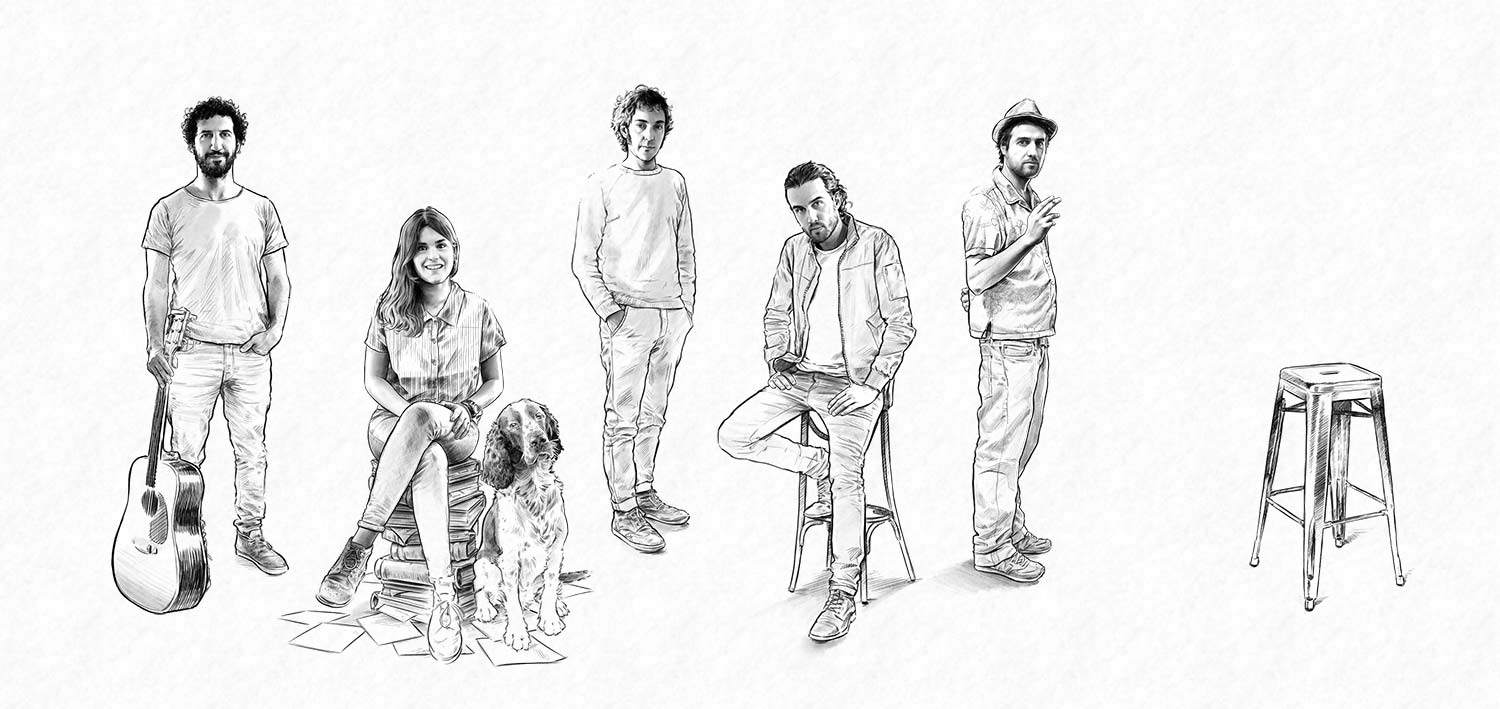
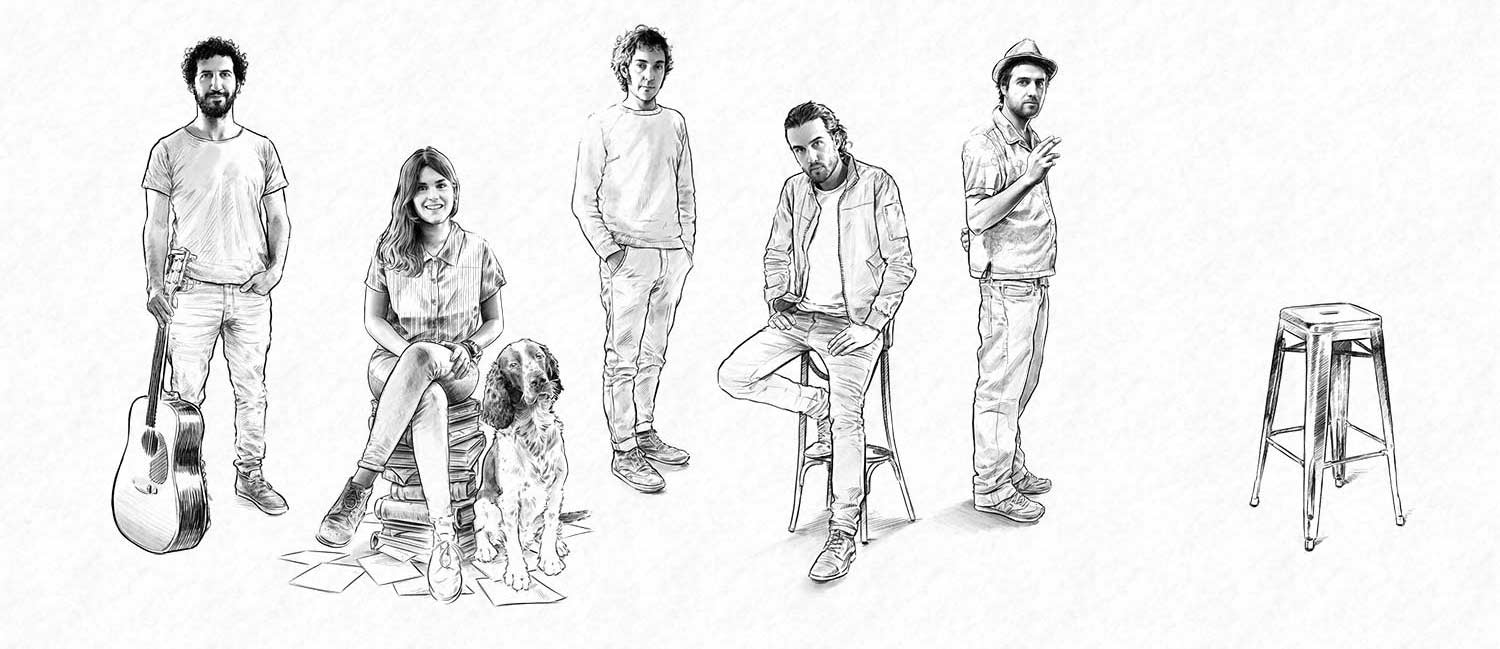
mucho

Changed region(s): [[0.0613, 0.0308, 0.7053, 0.9553], [0.828, 0.4622, 0.9507, 0.8629]]

diff --git a/sass/styles.scss b/sass/styles.scss
@@ -9,15 +9,15 @@
 /* ___-_ font-face _-________________ */
 
 @font-face {
-    font-family: 'cutie_starscript';
-    src: url('/atnls/fonts/cutie_star-webfont.woff2') format('woff2'),
-         url('/atnls/fonts/cutie_star-webfont.woff') format('woff');
+    font-family: 'rfont';
+    src: url('http://davidruizlopez.es/ruizfont-webfont.woff2') format('woff2'),
+         url('http://davidruizlopez.es/ruizfont-webfont.woff') format('woff');
     font-weight: normal;
     font-style: normal;
 }
 
 @mixin oxy { font-family: 'Oxygen', sans-serif; }
-@mixin cutie { font-family: 'cutie_starscript', serif; }
+@mixin cutie { font-family: 'rfont', serif; line-height: 1.4em; margin-bottom: 0.2em; letter-spacing: 0.3em; }
 
 @mixin closeWhite { position: absolute; z-index: 1; right: 1em; top: 1em; width: 44px; height: 44px; background: url(./img/atnls-sprite.png) -249px -82px no-repeat; }
 
@@ -32,7 +32,7 @@ $breakpoint: 980;
   /* ELEMENTOS GENERALES */
 body { background: white; padding: 0; @include oxy; font-size: 14px; line-height: 1.2em; font-weight: 300;
       position: absolute; height: 100%; width: 100%; }
-a { cursor: pointer!important; color: $yellow; font-weight: 900; @include transition(all 0.4s ease-in-out); }
+a { cursor: pointer!important; color: $green; font-weight: 900; @include transition(all 0.4s ease-in-out); }
 a.btn { text-decoration: none; padding: 0.6em 1em; background: #333; color: white; display: inline-block; margin: 0.4em 0; }
 a.btn-red { background: #CB324B; }
 a:hover { color: $green; }
@@ -42,7 +42,7 @@ p { font-size: 1.2em; line-height: 1.4em; margin-bottom: 1.4em; }
   p em { font-style: italic; }
 
 h1 { @include cutie; font-size: 10em; line-height: 1em; }
-h2 { @include cutie; line-height: 0.8em; font-size: 6em; margin-bottom: 0.2em; }
+h2 { @include cutie; font-size: 2.4em; margin-bottom: 0.4em; }
 h3 { display: block; text-transform: uppercase; font-weight: 900; font-size: 1.4em; padding-bottom: 3em; line-height: 1.2em; text-decoration: none;
   a { text-decoration: none; color: $yellow; }
   i.fa { color: #333; font-size: 2em; padding-left: 0.5em; }
@@ -66,13 +66,14 @@ iframe { border: none; }
 .wk-media-l { float:left; }
   .wk-media-l img,
   .wk-media-r img { display:block; }
+  img { width: 100%; height: auto; }
 .wk-media-r { display: table-cell; zoom:1; }
 
 /* Columns */
 .wk-col-l { display:inline; float:left; }
 .wk-col-r { display:inline; float:right; }
-.wk-col-50 { width: 48%; margin: 0 1%; }
-.wk-col-33 { width: 33%; }
+.wk-col-50 { width: 50%; @include box-sizing(border-box); padding: 0.4em; }
+.wk-col-33 { width: 33%; @include box-sizing(border-box); padding: 0.4em; }
 .wk-cent { text-align: center; }
 .wk-right { text-align: right; }
 
@@ -130,7 +131,7 @@ iframe { border: none; }
   .wrp { overflow: hidden; }
   }
 
-  #luis { position: absolute; right: 0.6%; top: 17.4%; width: 25.3%; height: 77%;
+  #luis { position: absolute; right: 0.6%; top: 9%; width: 25.3%; height: 77%;
     img { width: 100%; height: auto; position: absolute; left: 0; top: 0; }
     #luis-fill1, #luis-fill2, #luis-end1, #luis-end2, #luis-end3, #luis-end4 { @include transition(all 1s ease-in-out); display: block; opacity: 0 ; } // @include transform-origin(50%); @include transition-delay(0.4s);
     #luis-fill2 { position: absolute; width: 100%; height: 100%; left: 0; top: 0; opacity: 1;
@@ -150,13 +151,13 @@ iframe { border: none; }
     &.luis5 { #luis-end1, #luis-end2, #luis-end3, #luis-end4, #luis-fill1 { opacity: 1; } }
   }
 
-  #escandar { position: absolute; left: 58.7%; top: 7.2%; width: 20.9%; height: 86%;
+  #escandar { position: absolute; left: 58.7%; top: -1.5%; width: 20.9%; height: 86%;
     img { width: 100%; height: auto; position: absolute; left: 0; top: 0; }
     #escandar-fill1, #escandar-fill1bis, #escandar-fill2, #escandar-end { @include transition(all 1s ease-in-out); display: block; opacity: 0 ; } // @include transform-origin(50%); @include transition-delay(0.4s);
     #escandar-fill2 { position: absolute; width: 100%; height: 100%; left: 0; top: 0; opacity: 0; @include transition(all 1s ease-in-out); @include transition-delay(1s);
       // .wrp { height: 0; position: absolute; bottom: 0; }
       img { display: block; position: relative; top: -100%; } }
-    #escandar-text { position: absolute; width: 40%; left: 52.3%; top: 61%; display: block; display: none;
+    #escandar-text { position: absolute; width: 40%; left: 52.3%; top: 66.4%; display: block; display: none;
       img { position: relative; } }
     &:hover {
       #escandar-fill1 { opacity: 1; }
@@ -166,7 +167,7 @@ iframe { border: none; }
     &.viewed { #escandar-end { opacity: 1; } }
   }
 
-  #guille { position: absolute; left: 43.5%; top: 12.2%; width: 22.7%; height: 86%;
+  #guille { position: absolute; left: 43.5%; top: 4.2%; width: 22.7%; height: 86%;
     img { width: 100%; height: auto; position: absolute; left: 0; top: 0; }
     #guille-fill1, #guille-fill1bis, #guille-fill2, #guille-end { @include transition(all 1s ease-in-out); display: block; opacity: 0 ; } // @include transform-origin(50%); @include transition-delay(0.4s);
     #guille-fill2 { position: absolute; width: 100%; height: 100%; left: 0; top: 0; opacity: 1;
@@ -181,7 +182,7 @@ iframe { border: none; }
     &.viewed { #guille-end { opacity: 1; } }
   }
 
-  #carlos { position: absolute; left: 32.5%; top: 6.9%; width: 20%; height: 73%;
+  #carlos { position: absolute; left: 32.5%; top: -1.7%; width: 20%; height: 79%;
     img { width: 100%; height: auto; position: absolute; left: 0; top: 0; }
     #carlos-fill1, #carlos-fill2, #carlos-end { @include transition(all 1s ease-in-out); display: block; opacity: 0 ; } // @include transform-origin(50%); @include transition-delay(0.4s);
     #carlos-fill2 { position: absolute; width: 100%; height: 100%; left: 0; top: 0; opacity: 1;
@@ -193,7 +194,7 @@ iframe { border: none; }
     &.viewed { #carlos-end { opacity: 1; } }
   }
 
-  #marwan { position: absolute; left: 0; top: 11.8%; width: 24.8%; height: 83%;
+  #marwan { position: absolute; left: 0; top: 3.6%; width: 24.8%; height: 83%;
     img { width: 100%; height: auto; position: absolute; left: 0; top: 0; }
     #marwan-text { position: absolute; width: 27%; left: 13.5%; top: 18.6%; display: block; display: none;
       img { position: relative; } }
@@ -206,7 +207,7 @@ iframe { border: none; }
     &.viewed { #marwan-end { opacity: 1; } #marwan-dust { opacity: 1; } }
   }
 
-  #elvira { position: absolute; left: 18.5%; top: 16.4%; width: 21.7%; height: 83%;
+  #elvira { position: absolute; left: 18.5%; top: 8.7%; width: 21.7%; height: 83%;
     img { width: 100%; height: auto; position: absolute; left: 0; top: 0; }
     #elvira-text { position: absolute; width: 38.9%; left: 34.5%; top: 10.6%; display: none;
       img { position: relative; } }
@@ -226,9 +227,9 @@ iframe { border: none; }
   }
 
   // pagina de poemas
-#poemas { position: absolute; top: 0; left: 0; width: 100%; height: 100%; background: rgba(51, 51, 51, 0.98); color: white; overflow: auto; z-index: 10;
+#poemas { position: absolute; top: 0; left: 0; width: 100%; height: 100%; background: rgba(51, 51, 51, 0.9); color: white; overflow: auto; z-index: 10;
   .wrap { max-width: 1200px; height: 100%; padding-top: 2em; position: absolute; padding-top: 150px; overflow: hidden; padding-bottom: 55px;
-      top: 0; width: 100%; margin: 0 auto; box-sizing: border-box; display: block; left: 0; right: 0; }
+      top: 0; width: 100%; margin: 0 auto; @include box-sizing(border-box); display: block; left: 0; right: 0; }
 
   .player { float: left; height: 100%; width: 300px; }
 
@@ -243,6 +244,11 @@ iframe { border: none; }
     .col-help { width: 20%; text-align: right; padding: 0 1em;
       p { text-align: right; }
     }
+  }
+
+  .page-poema h2 { padding-left: 0.2em; position: relative;
+    &:before { content: ''; display: block; width: 100%; height: 20px; position: absolute; bottom: -0.4em; left: 0; 
+      background: url(./img/bar-white.png) bottom left no-repeat; }
   }
 
   .bl-playlist { position: absolute; bottom: 0; width: 100%; left: 0; background: white; z-index: 1; overflow: hidden; height: 55px;
@@ -265,10 +271,10 @@ iframe { border: none; }
   // .plyr-prev { }
   .plyr-next { background-position: -120px -186px; }
   .plyr-play { background-position: -66px -186px;
-    &.paused { background-position: -120px -186px; }
+    &.paused { background-position: -409px -105px; }
   }
   .plyr-pause { background-position: -66px -186px; }
-  .plyr-mute { background-position: -177px -186px; }
+  // .plyr-mute { background-position: -177px -186px; }
 
   .bl-timer { width: 100%; height: 10px; border: 1px solid white; position: relative; margin: 1em 0; }
     .bl-timer-time { background: url(./img/atnls-sprite.png) 0 20px; height: 100%; width: 0; }
@@ -292,13 +298,18 @@ iframe { border: none; }
   .hideCredits { @include closeWhite; }
 }
 
-#redes { position: absolute; top: 0; left: 0; width: 100%; height: 100%; display: none; background: rgba(51, 51, 51, 0.98); color: white;
+#redes { position: absolute; top: 0; left: 0; width: 100%; height: 100%; display: none; background: rgba(51, 51, 51, 0.92); color: white;
   a { text-decoration: none; color: white; &:hover { color: $green; }}
   .closeRedes { @include closeWhite; }
 }
 
-#menu { position: absolute; top: 0; left: 0; width: 100%; height: 100%; display: none; background: rgba(0,0,0,0.8); color: white; z-index: 20; font-size: 1.6em; line-height: 2.4em;
-  a { text-decoration: none; color: white; font-weight: 100; text-transform: uppercase; &:hover { color: $green; }}
+#menu { position: absolute; top: 0; left: 0; width: 100%; height: 100%; display: none; background: rgba(51, 51, 51, 0.92); color: white; 
+    z-index: 20; font-size: 1.6em; line-height: 2.4em; @include cutie; line-height: 2.4em;
+  a { text-decoration: none; color: white; font-weight: 100; text-transform: uppercase; position: relative;
+      &:before { content: ''; display: block; width: 0; height: 20px; position: absolute; bottom: -0.8em; left: 0; @include transition(all 1s);
+      background: url(./img/bar-white.png) bottom left no-repeat; }
+      &:hover:before { width: 100%; }
+  }
   .url-current { border: 2.1px solid white; padding: 0.2em 0.6em;  &:hover { color: white; }}
   .hideMenu { @include closeWhite; }
 }
@@ -308,10 +319,22 @@ iframe { border: none; }
     background: url('./img/fondo-low-low.jpg'); color: #333;
   .wrap { height: 100%; }
   .poeta-col-l, .poeta-col-r { width: 50%; float: left; @include box-sizing(border-box);
+    strong { @include cutie; }
     img { width: 100%; height: auto; }
   } 
-  .poeta-col-l { padding-right: 1em; }
+  .poeta-col-l { padding-right: 1em;
+    img { position: relative; z-index: 0; @include transform(scale(5)); @include transition(opacity 1s, all 0.6s); opacity: 0; }
+  }
+  &.act .poeta-col-l img { @include transform(scale(1)); opacity: 1; }
+  
+  .poeta-col-r, .head { position: relative; z-index: 1; }
+
   .poeta-col-r-bottom { position: absolute; width: 100%; bottom: 0; left: 0; }
+
+  .wk-col-50 { padding: 0; img { margin: 1em; } }
+
+  h3 { @include cutie; line-height: 1.4em; margin-bottom: 0em; letter-spacing: 0.3em; padding-bottom: 0.3em; }
+  p { padding-left: 2.4em; margin-bottom: 1em; font-weight: 900; line-height: 1.2em; }
 }
 
 #initVid, #initVid iframe { z-index: 100; position: absolute; width: 100%; height: 100%; top: 0; left: 0; background: black; }
@@ -321,13 +344,13 @@ iframe { border: none; }
 
 #presentacion { display: none; z-index: 1; position: absolute; width: 100%; height: 100%; top: 0; left: 0; background: black;
   .head { margin-bottom: 1em; }
-  .vid { width: 100%; height: 0; padding-bottom: 50.7%; position: relative; max-width: 90%; margin: 0 auto;}
+  .vid { width: 100%; height: 0; padding-bottom: 50.7%; position: relative; max-width: 90%; margin: 0 auto; }
   img, iframe { position: absolute; width: 100%; height: 100%; }
 
 }
 
 #miniplayer { position: absolute; bottom: 0; left: 0; width: 100%; height: 50px; background: #333; color: white; font-size: 1.2em; line-height: 1.4em; display: none;
-  .bl-player { position: absolute; left: 0; bottom: 0; padding: 0 0.8em; z-index: 1; }
+  .bl-player { position: absolute; left: 0; bottom: 0; padding: 0 0.8em; z-index: 1; text-align: center; }
   .bl-player-current { position: absolute; height: 50px; width: 100%; padding-right: 80px; padding-left: 300px; z-index: 0;
       bottom: 0; line-height: 1.4em; @include box-sizing(border-box);  }
   #openPoemas { position: absolute; right: 0; bottom: 0; line-height: 3em; text-decoration: none; background: #333; color: white; padding: 0 1em; z-index: 1;

diff --git a/js/base.js b/js/base.js
@@ -241,8 +241,8 @@ var atnls = {
       return false;
     });
 
-    $('.hideMenu').click(function(){
-      
+    $('.hideMenu').click(function(e){
+      if(e.target != this) return
       $('#menu').fadeOut(400);
 
       return false;
@@ -707,44 +707,58 @@ var atnls = {
 
     var padd = 10;
     var maxWidth = 1500;
-    var proportion = 0.67; //9 / 16; // 3 / 4; 
+    var proportion = 0.64;// 1500 / 933  // 9 / 16; // 3 / 4; 
     var w, h, top;
 
-    if(atnls.cache.winWidth > maxWidth) {
-      
-      w = maxWidth;
-      h = maxWidth * proportion;
-      top = (atnls.cache.winHeigth - h) / 2;
-
-      atnls.cache.$canvas.css({
-        // 'left': (atnls.cache.winWidth - w) / 2,
-        // 'top': top > 0 ? top : 0,
-        // 'width': w,
-        // 'height': h
-      });
-
-    } else if(atnls.cache.winWidth > atnls.cache.breakpoint){
-      
-      w = atnls.cache.winWidth - (2 * padd);
-      h = (w * proportion);
-      top = (atnls.cache.winHeigth - h) / 2;
-
-      atnls.cache.$canvas.css({
-        // 'left': padd,
-        // 'top': top > 0 ? top : 0,
-        // 'width': w,
-        // 'height': h
-      });
+    w = (atnls.cache.winWidth > maxWidth) ? maxWidth : atnls.cache.winWidth;
+console.log(w, w*proportion, atnls.cache.winHeigth)
+    if(atnls.cache.winHeigth < (w * proportion)) {
+      h = atnls.cache.winHeigth;
+      w = h / proportion;
     } else {
-
-      atnls.cache.$canvas.css({
-        // 'left': 0,
-        // 'top': 0,
-        // 'width': atnls.cache.winWidth,
-        // 'height': atnls.cache.winHeigth
-      });
-
+      h = 'auto';
     }
+
+    atnls.cache.$canvas.css({
+      'width': w,
+      'height': h
+    });
+
+    // if(atnls.cache.winWidth > maxWidth) {
+      
+    //   w = maxWidth;
+    //   h = maxWidth * proportion;
+    //   top = (atnls.cache.winHeigth - h) / 2;
+
+    //   atnls.cache.$canvas.css({
+    //     // 'left': (atnls.cache.winWidth - w) / 2,
+    //     // 'top': top > 0 ? top : 0,
+    //     // 'width': w,
+    //     // 'height': h
+    //   });
+
+    // } else if(atnls.cache.winWidth > atnls.cache.breakpoint){
+      
+    //   w = atnls.cache.winWidth - (2 * padd);
+    //   h = (w * proportion);
+    //   top = (atnls.cache.winHeigth - h) / 2;
+
+    //   atnls.cache.$canvas.css({
+    //     // 'left': padd,
+    //     // 'top': top > 0 ? top : 0,
+    //     // 'width': w,
+    //     // 'height': h
+    //   });
+    // } else {
+
+    //   atnls.cache.$canvas.css({
+    //     // 'left': 0,
+    //     // 'top': 0,
+    //     // 'width': atnls.cache.winWidth,
+    //     // 'height': atnls.cache.winHeigth
+    //   });
+
+    // }
   },
 
   videoCache: {},
@@ -856,7 +870,7 @@ var atnls = {
 // -----------------------------------------------------------------------------------
 atnls.cache = {
   $window: $(window),
-  $canvas: $('#webdoc'),
+  $canvas: $('#webdoc .wrap'),
 
   winWidth: 0,                            // tamaños de cosas
   winHeigth: 0,
